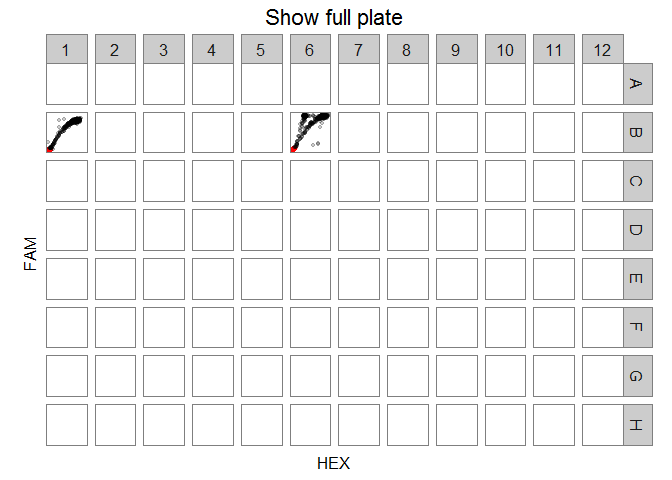
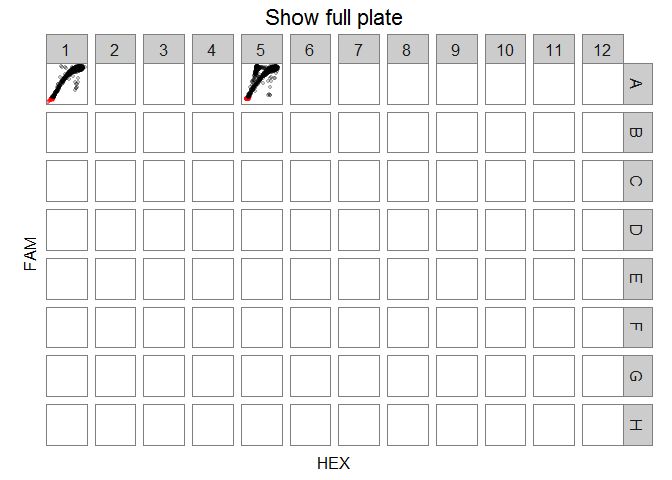
re-render readme with new sample dataset

diff --git a/README.md b/README.md
@@ -228,7 +228,7 @@ analysis. Explanation will follow, these are just here as a teaser.
     # example 1: manually set thresholds
     plate1 <-
       new_plate(dir, type = plate_types$custom_thresholds) %>%
-      subset("B01,B06") %>%
+      subset("A01,A05") %>%
       set_thresholds(c(5000, 7500)) %>%
       analyze()
     plot(plate1, show_grid_labels = TRUE, alpha_drops = 0.3,
@@ -236,7 +236,7 @@ analysis. Explanation will follow, these are just here as a teaser.
 
     # example 2: automatic gating
     new_plate(dir, type = plate_types$fam_positive_pnpp) %>%
-      subset("B01:B06") %>%
+      subset("A01:A05") %>%
       analyze() %>%
       plot(show_mutant_freq = FALSE, show_grid_labels = TRUE, alpha_drops = 0.3,
            title = "Automatic gating\nworks with PNPP experiments")
@@ -311,7 +311,7 @@ the plate object.
     #>                     ddpcr plate
     #>                    -------------
     #>             Dataset name : small
-    #>             Data summary : 5 wells; 75,699 drops
+    #>             Data summary : 5 wells; 72,727 drops
     #>               Plate type : ddpcr_plate
     #> Completed analysis steps : INITIALIZE
     #> Remaining analysis steps : REMOVE_FAILURES, REMOVE_OUTLIERS, REMOVE_EMPTY
@@ -337,7 +337,7 @@ We can see what wells are in our data with `wells_used()`
 
     plate %>% wells_used()
 
-    #> [1] "B01" "B06" "C01" "C06" "C08"
+    #> [1] "A01" "A05" "C01" "C05" "F05"
 
 There are 5 wells because the sample data folder has 5 well files.
 
@@ -345,20 +345,20 @@ We can see all the droplets data with `plate_data()`
 
     plate %>% plate_data()
 
-    #> Source: local data frame [75,699 x 4]
+    #> Source: local data frame [72,727 x 4]
     #> 
     #>     well   HEX   FAM cluster
     #>    (chr) (int) (int)   (int)
-    #> 1    B01  1374  1013       1
-    #> 2    B01  1411  1018       1
-    #> 3    B01  1428  1024       1
-    #> 4    B01  1313  1026       1
-    #> 5    B01  1362  1027       1
-    #> 6    B01  1290  1028       1
-    #> 7    B01  1319  1030       1
-    #> 8    B01  1492  1032       1
-    #> 9    B01  1312  1036       1
-    #> 10   B01  1294  1037       1
+    #> 1    A01   577   494       1
+    #> 2    A01   515   495       1
+    #> 3    A01   690   645       1
+    #> 4    A01   929   860       1
+    #> 5    A01   844   868       1
+    #> 6    A01   942   907       1
+    #> 7    A01   985   923       1
+    #> 8    A01  1058   966       1
+    #> 9    A01  1058   979       1
+    #> 10   A01  1095  1002       1
     #> ..   ...   ...   ...     ...
 
 > **Technical note**: This shows us the fluorescence amplitudes of each
@@ -380,11 +380,11 @@ We can see the results of the plate so far with `plate_meta()`
     plate %>% plate_meta(only_used = TRUE)
 
     #>   well sample row col used drops
-    #> 1  B01   Dean   B   1 TRUE 17458
-    #> 2  B06   Dave   B   6 TRUE 13657
-    #> 3  C01   Mike   C   1 TRUE 15279
-    #> 4  C06  Emily   C   6 TRUE 14504
-    #> 5  C08   Mary   C   8 TRUE 14801
+    #> 1  A01   Dean   A   1 TRUE 15820
+    #> 2  A05   Dave   A   5 TRUE 13165
+    #> 3  C01   Mike   C   1 TRUE 14256
+    #> 4  C05  Emily   C   5 TRUE 14109
+    #> 5  F05   Mary   F   5 TRUE 15377
 
 The `only_used` parameter is used so that we'll only get data about the
 5 existing wells and ignore the other 91 unused wells on the plate.
@@ -416,11 +416,11 @@ example](inst/vignettes-supp/ex-subset.png)](inst/vignettes-supp/ex-subset.png)
 
 Back to our data: we have 5 wells, let's keep 4 of them
 
-    plate <- plate %>% subset("B01:C06")
-    # could have also used subset("B01, B06, C01, C06")
+    plate <- plate %>% subset("A01:C05")
+    # could have also used subset("A01, A05, C01, C05")
     plate %>% wells_used()
 
-    #> [1] "B01" "B06" "C01" "C06"
+    #> [1] "A01" "A05" "C01" "C05"
 
 <h3 id="run">
 Run analysis
@@ -434,7 +434,7 @@ it.
     #>                     ddpcr plate
     #>                    -------------
     #>             Dataset name : small
-    #>             Data summary : 4 wells; 60,898 drops
+    #>             Data summary : 4 wells; 57,350 drops
     #>               Plate type : ddpcr_plate
     #> Completed analysis steps : INITIALIZE
     #> Remaining analysis steps : REMOVE_FAILURES, REMOVE_OUTLIERS, REMOVE_EMPTY
@@ -482,7 +482,7 @@ We can explore the plate again, now that it has been analyzed.
     #>         ddpcr plate
     #>        -------------
     #> Dataset name : small
-    #> Data summary : 4 wells; 60,898 drops
+    #> Data summary : 4 wells; 57,350 drops
     #>   Plate type : ddpcr_plate
     #>       Status : Analysis completed
 
@@ -491,20 +491,20 @@ which steps were remaining). We can also look at the droplets data
 
     plate %>% plate_data()
 
-    #> Source: local data frame [60,898 x 4]
+    #> Source: local data frame [57,350 x 4]
     #> 
     #>     well   HEX   FAM cluster
     #>    (chr) (int) (int)   (int)
-    #> 1    B01  1374  1013       4
-    #> 2    B01  1411  1018       4
-    #> 3    B01  1428  1024       4
-    #> 4    B01  1313  1026       4
-    #> 5    B01  1362  1027       4
-    #> 6    B01  1290  1028       4
-    #> 7    B01  1319  1030       4
-    #> 8    B01  1492  1032       4
-    #> 9    B01  1312  1036       4
-    #> 10   B01  1294  1037       4
+    #> 1    A01   577   494       4
+    #> 2    A01   515   495       4
+    #> 3    A01   690   645       4
+    #> 4    A01   929   860       4
+    #> 5    A01   844   868       4
+    #> 6    A01   942   907       4
+    #> 7    A01   985   923       4
+    #> 8    A01  1058   966       4
+    #> 9    A01  1058   979       4
+    #> 10   A01  1095  1002       4
     #> ..   ...   ...   ...     ...
 
 This isn't very informative since it shows the cluster assignment for
@@ -515,28 +515,28 @@ also look at the plate results
     plate %>% plate_meta(only_used = TRUE)
 
     #>   well sample row col used drops success drops_outlier drops_empty
-    #> 1  B01   Dean   B   1 TRUE 17458    TRUE             0       16690
-    #> 2  B06   Dave   B   6 TRUE 13657    TRUE             2       12925
-    #> 3  C01   Mike   C   1 TRUE 15279    TRUE             0       13903
-    #> 4  C06  Emily   C   6 TRUE 14504   FALSE             0          NA
-    #>   drops_non_empty drops_empty_fraction concentration
-    #> 1             768                0.956            49
-    #> 2             732                0.946            61
-    #> 3            1376                0.910           103
-    #> 4              NA                   NA            NA
+    #> 1  A01   Dean   A   1 TRUE 15820    TRUE             2       13690
+    #> 2  A05   Dave   A   5 TRUE 13165    TRUE             1       11283
+    #> 3  C01   Mike   C   1 TRUE 14256    TRUE             0       12879
+    #> 4  C05  Emily   C   5 TRUE 14109   FALSE             0          NA
+    #>   drops_filled drops_empty_fraction concentration
+    #> 1         2130                0.865           159
+    #> 2         1882                0.857           169
+    #> 3         1377                0.903           112
+    #> 4           NA                   NA            NA
 
 Now there's a bit more information in the results table. The *success*
 column indicates whether or not the ddPCR run was successful in that
-particular well; notice how well `C06` was deemed a failure, and thus is
+particular well; notice how well `C05` was deemed a failure, and thus is
 not included the any subsequent analysis steps.
 
 You can use the `well_info()` function to get the value of a specific
 variable of a specific well from the results. For example, we can query
-the plate object to see how many empty droplets are in well `B06`.
+the plate object to see how many empty droplets are in well `A05`.
 
-    well_info(plate, "B06", "drops_empty")
+    well_info(plate, "A05", "drops_empty")
 
-    #> [1] 12925
+    #> [1] 11283
 
 <h3 id="plot">
 Plot
@@ -548,7 +548,7 @@ function.
 
 ![](vignettes/overview_files/figure-markdown_strict/plotsimple-1.png)<!-- -->
 
-Notice well `C06` is grayed out, which means that it is a failed well.
+Notice well `C05` is grayed out, which means that it is a failed well.
 By default, failed wells have a grey background, and empty and outlier
 droplets are excluded from the plot.
 
@@ -573,10 +573,10 @@ example, to show the outlier droplets in blue, add the parameters
 The following two plots show examples of how to use some plot
 parameters.
 
-    plate %>% plot(wells = "B01,B06", show_full_plate = TRUE,
+    plate %>% plot(wells = "A01,A05", show_full_plate = TRUE,
                    show_drops_empty = TRUE, col_drops_empty = "red",
                    title = "Show full plate")
-    plate %>% plot(wells = "B01,B06", superimpose = TRUE,
+    plate %>% plot(wells = "A01,A05", superimpose = TRUE,
                    show_grid = TRUE, show_grid_labels = TRUE, title = "Superimpose")
 
 <img src="vignettes/overview_files/figure-markdown_strict/plotparams-1.png" title="" alt="" width="50%" /><img src="vignettes/overview_files/figure-markdown_strict/plotparams-2.png" title="" alt="" width="50%" />
@@ -633,7 +633,7 @@ initializing a new plate or by resetting an existing plate object.
     # two ways to create the desired plate
     plate_manual <- reset(plate, type = plate_types$custom_thresholds)
     plate_manual2 <- new_plate(dir, type = plate_types$custom_thresholds) %>%
-      subset("B01:C06")
+      subset("A01:C05")
 
     # make sure the two methods above are identical
     identical(plate_manual, plate_manual2)
@@ -645,7 +645,7 @@ initializing a new plate or by resetting an existing plate object.
     #>                     ddpcr plate
     #>                    -------------
     #>             Dataset name : small
-    #>             Data summary : 4 wells; 60,898 drops
+    #>             Data summary : 4 wells; 57,350 drops
     #>               Plate type : custom_thresholds, ddpcr_plate
     #> Completed analysis steps : INITIALIZE
     #> Remaining analysis steps : REMOVE_OUTLIERS, CLASSIFY
@@ -657,13 +657,14 @@ the draw the thresholds
 
 ![](vignettes/overview_files/figure-markdown_strict/plotcrosshair-1.png)<!-- -->
 
-If you noticed, there's a droplet in well *C06* that has a HEX value of
-25000 and is probably an outlier, which is the cause of the weird scale.
-After analyzing the plate, it will be identified as an outlier and
-hidden automatically. Before running the analysis, we should set where
-the thresholds will be. By default, the thresholds are at (5000, 5000),
-which is very arbitrary. It looks like the x coordinate is fine, but the
-y border should move up to approximately 8000. Then run the analysis.
+If you noticed, there's a droplet in well *A05* that has a much larger
+fluorescence value and is probably an outlier, which is the reason the
+scale is a bit too large. After analyzing the plate, it will be
+identified as an outlier and hidden automatically. Before running the
+analysis, we should set where the thresholds will be. By default, the
+thresholds are at (5000, 5000), which is very arbitrary. It looks like
+the x coordinate is fine, but the y border should move up to
+approximately 8000. Then run the analysis.
 
     # what are the current thresholds?
     thresholds(plate_manual)
@@ -689,15 +690,15 @@ Now the plate is ready and we can plot it or look at its results
     plate_meta(plate_manual, only_used = TRUE)
 
     #>   well sample row col used drops drops_outlier drops_empty
-    #> 1  B01   Dean   B   1 TRUE 17458             0       16801
-    #> 2  B06   Dave   B   6 TRUE 13657             1       12998
-    #> 3  C01   Mike   C   1 TRUE 15279             0       14019
-    #> 4  C06  Emily   C   6 TRUE 14504             0       14487
+    #> 1  A01   Dean   A   1 TRUE 15820             2       13909
+    #> 2  A05   Dave   A   5 TRUE 13165             1       11512
+    #> 3  C01   Mike   C   1 TRUE 14256             0       12967
+    #> 4  C05  Emily   C   5 TRUE 14109             0       14011
     #>   drops_x_positive drops_y_positive drops_both_positive
-    #> 1               20                3                 634
-    #> 2                5              157                 496
-    #> 3               12               12                1236
-    #> 4                1                4                  12
+    #> 1               20               20                1869
+    #> 2               34              390                1228
+    #> 3                8                7                1274
+    #> 4               15               11                  72
 
     plot(plate_manual)
 
@@ -793,11 +794,11 @@ Now we can analyze the plate
 
     #> Identifying empty droplets...
 
-    #> DONE (0 seconds)
+    #> DONE (1 seconds)
 
     #> Classifying droplets...
 
-    #> DONE (0 seconds)
+    #> DONE (1 seconds)
 
     #> Reclassifying droplets... skipped (not enough wells with significant mutant clusters)
 
@@ -828,28 +829,28 @@ Take a look at the results
     plate_pnpp %>% plate_meta(only_used = TRUE)
 
     #>   well sample row col used drops success drops_outlier drops_empty
-    #> 1  B01   Dean   B   1 TRUE 17458    TRUE             0       16691
-    #> 2  B06   Dave   B   6 TRUE 13657    TRUE             2       12925
-    #> 3  C01   Mike   C   1 TRUE 15279    TRUE             0       13903
-    #> 4  C08   Mary   C   8 TRUE 14801    TRUE             0       14023
-    #> 5  C06  Emily   C   6 TRUE 14504   FALSE             0          NA
-    #>   drops_non_empty drops_empty_fraction concentration mutant_border
-    #> 1             767                0.956            49          3551
-    #> 2             732                0.946            61          4090
-    #> 3            1376                0.910           103          4424
-    #> 4             778                0.947            59          3990
-    #> 5              NA                   NA            NA            NA
+    #> 1  A01   Dean   A   1 TRUE 15820    TRUE             2       13690
+    #> 2  A05   Dave   A   5 TRUE 13165    TRUE             1       11283
+    #> 3  C01   Mike   C   1 TRUE 14256    TRUE             0       12879
+    #> 4  F05   Mary   F   5 TRUE 15377    TRUE             0       14126
+    #> 5  C05  Emily   C   5 TRUE 14109   FALSE             0          NA
+    #>   drops_filled drops_empty_fraction concentration mutant_border
+    #> 1         2130                0.865           159          4194
+    #> 2         1882                0.857           169          3789
+    #> 3         1377                0.903           112          4356
+    #> 4         1251                0.919            92          3926
+    #> 5           NA                   NA            NA            NA
     #>   filled_border significant_mutant_cluster mutant_num wildtype_num
-    #> 1          7945                      FALSE          1          642
-    #> 2          8971                       TRUE        140          479
-    #> 3          8524                      FALSE          2         1214
-    #> 4          8869                       TRUE        174          477
+    #> 1          8286                      FALSE          4         1827
+    #> 2          8136                       TRUE        368         1224
+    #> 3          8445                      FALSE          3         1248
+    #> 4          8294                       TRUE        211          855
     #> 5            NA                         NA         NA           NA
     #>   mutant_freq
-    #> 1       0.156
-    #> 2      22.600
-    #> 3       0.164
-    #> 4      26.700
+    #> 1       0.218
+    #> 2      23.100
+    #> 3       0.240
+    #> 4      19.800
     #> 5          NA
 
 Explanation of some of the variables:
@@ -884,11 +885,11 @@ wells with a significant mutant cluster and those without.
 
     plate_pnpp %>% wells_mutant()
 
-    #> [1] "B06" "C08"
+    #> [1] "A05" "F05"
 
     plate_pnpp %>% wells_wildtype()
 
-    #> [1] "B01" "C01"
+    #> [1] "A01" "C01"
 
 <h2 id="plate-params">
 Advanced topic 1: Plate parameters
@@ -993,7 +994,7 @@ the `restart = TRUE` parameter.
 
     #> Identifying empty droplets...
 
-    #> DONE (1 seconds)
+    #> DONE (0 seconds)
 
     #> Analysis complete
 
